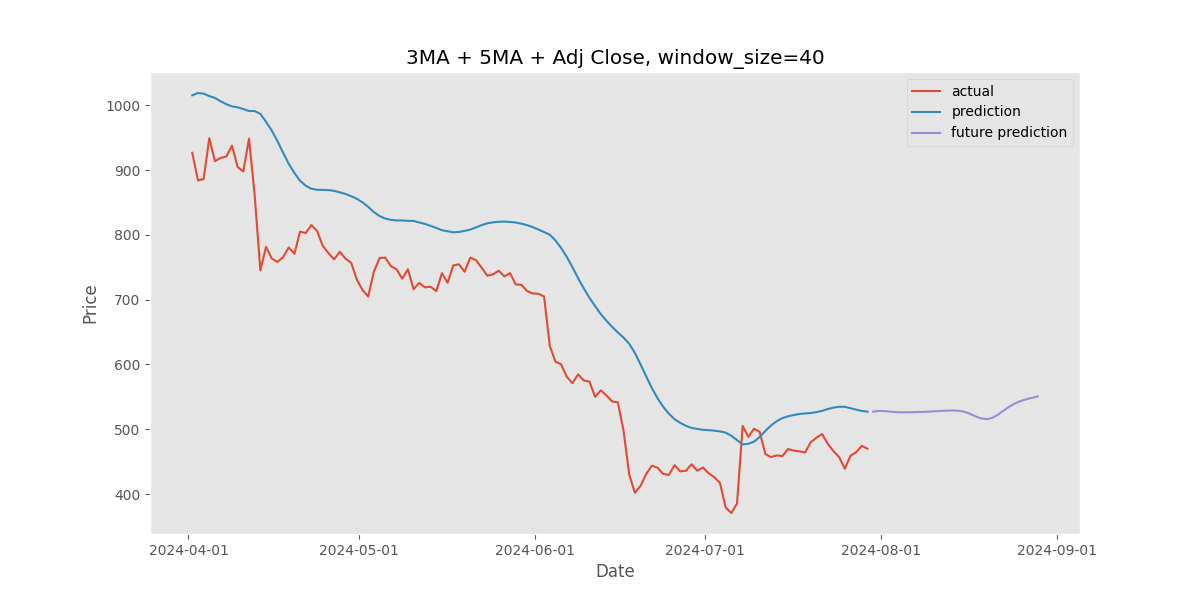
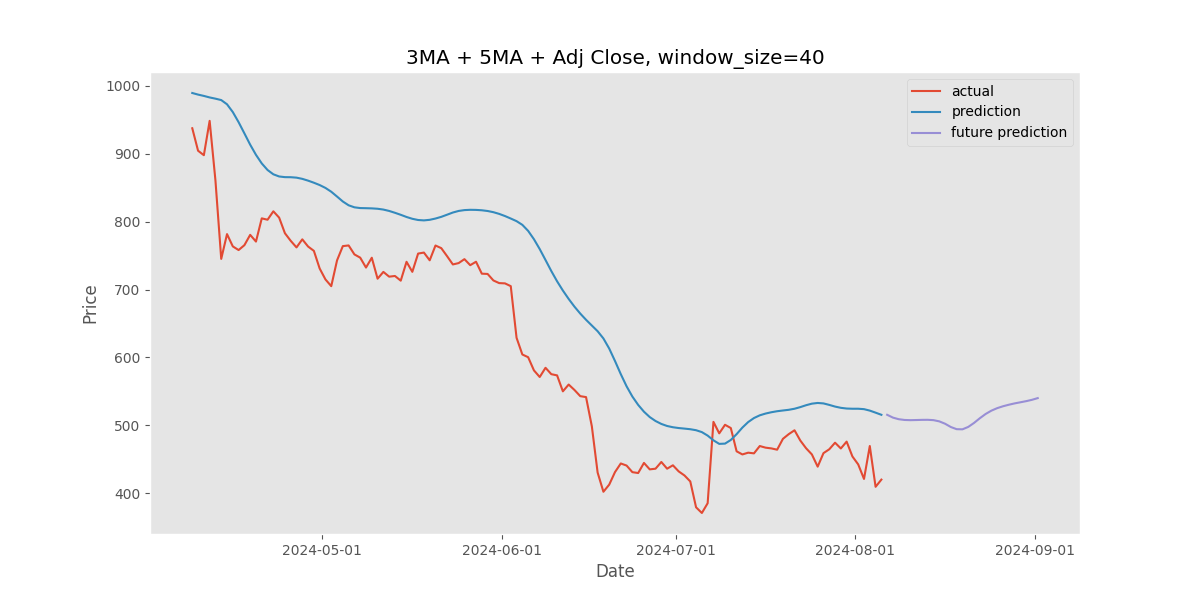
Add files via upload

diff --git a/public/auto.html b/public/auto.html
@@ -100,6 +100,18 @@
         .status-message {
             white-space: pre-line;
         }
+
+        .chart-container {
+            margin-top: 20px;
+            text-align: center;
+            width: 100%;
+            height: 500px; /* 차트 높이 증가 */
+        }
+
+        canvas {
+            max-width: 100%;
+            height: 100%;
+        }
     </style>
     <script src="https://code.jquery.com/jquery-3.6.0.min.js"></script>
 </head>
@@ -133,12 +145,17 @@
         <div id="statusUpdates">
             <ul id="statusList"></ul>
         </div>
+        <div class="chart-container">
+            <canvas id="priceChart"></canvas>
+        </div>
     </div>
 
     <!-- Socket.IO library -->
     <script src="https://cdnjs.cloudflare.com/ajax/libs/socket.io/4.4.1/socket.io.min.js"></script>
+    <script src="https://cdn.jsdelivr.net/npm/chart.js"></script>
+    <script src="https://cdn.jsdelivr.net/npm/chartjs-adapter-date-fns"></script>
     <script>
-        const socket = io('http://localhost:5002');  // auto.py의 포트로 수정
+        const socket = io('http://localhost:5002');
 
         socket.on('connect', () => {
             console.log('서버에 연결되었습니다.');
@@ -162,10 +179,10 @@
             $('#startForm').submit((event) => {
                 event.preventDefault();
                 const ticker = $('#ticker').val();
-                const sid = socket.id; // 클라이언트의 소켓 ID 가져오기
-                console.log('Socket ID:', sid); // 추가된 로그
+                const sid = socket.id;
+                console.log('Socket ID:', sid);
                 $.ajax({
-                    url: 'http://localhost:5002/start',  // auto.py의 포트로 수정
+                    url: 'http://localhost:5002/start',
                     type: 'POST',
                     contentType: 'application/json',
                     data: JSON.stringify({ ticker: ticker, sid: sid }),
@@ -178,6 +195,96 @@
                         statusUpdates.scrollTop = statusUpdates.scrollHeight;
                     }
                 });
+            });
+
+            // Chart.js 초기화
+            const ctx = document.getElementById('priceChart').getContext('2d');
+            const priceChart = new Chart(ctx, {
+                type: 'line',
+                data: {
+                    labels: [],
+                    datasets: [
+                        {
+                            label: 'Current Price',
+                            borderColor: 'blue',
+                            backgroundColor: 'blue', // 배경색 추가
+                            data: [],
+                            fill: false,
+                            tension: 0.1,
+                            borderWidth: 2,
+                            pointRadius: 3,  // 포인트 표시 및 크기 조정
+                        },
+                        {
+                            label: 'Target Price',
+                            borderColor: 'red',
+                            data: [],
+                            fill: false,
+                            tension: 0.1,
+                            borderWidth: 2,
+                            pointRadius: 0  // 포인트 숨기기
+                        }
+                    ]
+                },
+                options: {
+                    scales: {
+                        x: {
+                            type: 'time',
+                            time: {
+                                unit: 'minute',
+                                tooltipFormat: 'll HH:mm',
+                                displayFormats: {
+                                    minute: 'HH:mm'
+                                }
+                            },
+                            title: {
+                                display: true,
+                                text: 'Time'
+                            }
+                        },
+                        y: {
+                            title: {
+                                display: true,
+                                text: 'Price'
+                            }
+                        }
+                    },
+                    animation: {
+                        duration: 500,
+                        easing: 'linear'
+                    }
+                }
+            });
+
+            const MAX_DATA_POINTS = 50; // 최대 데이터 포인트 수
+
+            let lastUpdateTime = 0;
+
+            // 실시간 데이터 업데이트
+            function updateChart(data) {
+                const currentPrice = data.current_price;
+                const targetPrice = data.target_price;
+                const time = new Date(data.time);
+
+                // 1분마다 데이터 업데이트
+                if (time - lastUpdateTime >= 60000) {
+                    lastUpdateTime = time;
+
+                    if (priceChart.data.labels.length > MAX_DATA_POINTS) {
+                        priceChart.data.labels.shift();
+                        priceChart.data.datasets[0].data.shift();
+                        priceChart.data.datasets[1].data.shift();
+                    }
+
+                    priceChart.data.labels.push(time);
+                    priceChart.data.datasets[0].data.push(currentPrice);
+                    priceChart.data.datasets[1].data.push(targetPrice);
+
+                    priceChart.update();
+                }
+            }
+
+            socket.on('price_update', (data) => {
+                updateChart(data);
             });
         });
     </script>

diff --git a/main.js b/main.js
@@ -263,7 +263,7 @@ app.post('/start', (req, res) => {
     console.log('Received data - 티커:', ticker, '소켓 ID:', sid);
     const options = {
         hostname: 'localhost', // Flask 서버가 실행 중인 호스트
-        port: 5000, // Flask 서버가 실행 중인 포트
+        port: 5002, // Flask 서버가 실행 중인 포트
         path: '/start',
         method: 'POST',
         headers: {

diff --git a/auto.py b/auto.py
@@ -1,41 +1,52 @@
 import pyupbit
 import datetime
 import time
-from flask import Flask, request, jsonify
+import numpy as np
+from flask import Flask, request, jsonify, render_template
 from flask_socketio import SocketIO, emit
-from flask_cors import CORS  # Flask-CORS 라이브러리 임포트
+from flask_cors import CORS
 
 app = Flask(__name__)
 app.config['SECRET_KEY'] = 'secret!'
 socketio = SocketIO(app, cors_allowed_origins="*")
-CORS(app)  # CORS 설정 추가
+CORS(app)
 
 class AutoTrade:
     def __init__(self, start_cash, ticker, sid):
-        self.fee = 0.05  # 수수료
-        self.target_price = 0  # 목표 매수가
-        self.ma5 = 0  # 5일 이동평균
-        self.ticker = ticker  # 티커
-        self.buy_yn = False  # 매수 여부
-        self.start_cash = start_cash  # 시작 자산
+        self.fee = 0.05
+        self.target_price = 0
+        self.ma5 = 0
+        self.ticker = ticker
+        self.buy_yn = False
+        self.start_cash = start_cash
         self.sid = sid
         self.timer = 0
+        self.prices = []
+        self.target_prices = []
         self.get_today_data()
 
     def start(self):
-        now = datetime.datetime.now()  # 현재 시간
+        now = datetime.datetime.now()
         socketio.emit('status_update', {
                       'message': f"자동 매매 프로그램이 시작되었습니다\n시작 시간: {now}\n매매 대상: {self.ticker}\n시작 자산: {self.start_cash}"}, room=self.sid)
-        openTime = datetime.datetime(
-            now.year, now.month, now.day) + datetime.timedelta(days=1, hours=9, seconds=10)  # 09:00:10
+        openTime = datetime.datetime(now.year, now.month, now.day) + datetime.timedelta(days=1, hours=9, seconds=10)
 
         while True:
             try:
                 now = datetime.datetime.now()
                 current_price = pyupbit.get_current_price(self.ticker)
+                self.prices.append(current_price)
+                self.target_prices.append(self.target_price)
+                self.send_price_update(current_price, self.target_price)
 
                 if self.timer % 60 == 0:
                     status_message = f"{now}\n거래 시작 시간: {openTime}\n목표 매수가: {self.target_price:.2f}\n현재가: {current_price:.2f}\n5일 이동평균: {self.ma5:.2f}\n매수 여부: {'예' if self.buy_yn else '아니오'}"
+
+                    # 상승/하강 추세 결정
+                    if len(self.prices) > 1:
+                        trend = "상승" if self.prices[-1] > self.prices[-2] else "하락"
+                        status_message += f"\n추세: {trend}"
+
                     print(status_message)
                     socketio.emit('status_update', {'message': status_message}, room=self.sid)
 
@@ -46,9 +57,9 @@ class AutoTrade:
                         print(sell_message)
                         socketio.emit('status_update', {'message': sell_message}, room=self.sid)
                         self.sell_coin()
-                    self.get_today_data()  # 데이터 갱신
+                    self.get_today_data()
 
-                if (current_price >= self.target_price) and (current_price >= self.ma5) and not self.buy_yn:  # 매수 시도
+                if (current_price >= self.target_price) and (current_price >= self.ma5) and not self.buy_yn:
                     buy_message = "==================== [ 매수 시도 ] ===================="
                     print(buy_message)
                     socketio.emit('status_update', {'message': buy_message}, room=self.sid)
@@ -61,24 +72,19 @@ class AutoTrade:
             self.timer += 1
             time.sleep(1)
 
+    def send_price_update(self, current_price, target_price):
+        now = datetime.datetime.now().strftime("%Y-%m-%d %H:%M:%S")
+        socketio.emit('price_update', {'time': now, 'current_price': current_price, 'target_price': target_price}, room=self.sid)
+
     def get_today_data(self):
         print("\n==================== [ 데이터 갱신 시도 ] ====================")
         daily_data = pyupbit.get_ohlcv(self.ticker, count=41)
-        # 노이즈 계산 ( 1- 절대값(시가 - 종가) / (고가 - 저가) )
         daily_data['noise'] = 1 - abs(daily_data['open'] - daily_data['close']) / (daily_data['high'] - daily_data['low'])
-        # 노이즈 20일 평균
         daily_data['noise_ma20'] = daily_data['noise'].rolling(window=20).mean().shift(1)
-
-        # 변동폭 ( 고가 - 저가 )
         daily_data['range'] = daily_data['high'] - daily_data['low']
-        # 목표매수가 ( 시가 + 변동폭 * K )
         daily_data['targetPrice'] = daily_data['open'] + daily_data['range'].shift(1) * daily_data['noise_ma20']
-
-        # 5일 이동평균선
         daily_data['ma5'] = daily_data['close'].rolling(window=5, min_periods=1).mean().shift(1)
-
         today = daily_data.iloc[-1]
-
         self.target_price = today.targetPrice
         self.ma5 = today.ma5
         print("==================== [ 데이터 갱신 완료 ] ====================\n")
@@ -86,23 +92,26 @@ class AutoTrade:
 
     def buy_coin(self):
         self.buy_yn = True
-        balance = upbit.get_balance()  # 잔고 조회
-
-        if balance > 5000:  # 잔고 5000원 이상일 때
+        balance = upbit.get_balance()
+        if balance > 5000:
             upbit.buy_market_order(self.ticker, balance * 0.9995)
-            buy_price = pyupbit.get_orderbook(self.ticker)['orderbook_units'][0]['ask_price']  # 최우선 매도 호가
+            buy_price = pyupbit.get_orderbook(self.ticker)['orderbook_units'][0]['ask_price']
             buy_message = f"====================매수 시도====================\n#매수 주문\n매수 주문 가격: {buy_price:.2f}원"
             print(buy_message)
             socketio.emit('status_update', {'message': buy_message}, room=self.sid)
 
     def sell_coin(self):
         self.buy_yn = False
-        balance = upbit.get_balance(self.ticker)  # 잔고 조회
+        balance = upbit.get_balance(self.ticker)
         upbit.sell_market_order(self.ticker, balance)
-        sell_price = pyupbit.get_orderbook(self.ticker)['orderbook_units'][0]['bid_price']  # 최우선 매수 호가
+        sell_price = pyupbit.get_orderbook(self.ticker)['orderbook_units'][0]['bid_price']
         sell_message = f"====================매도 시도====================\n#매도 주문\n매도 주문 가격: {sell_price:.2f}원"
         print(sell_message)
         socketio.emit('status_update', {'message': sell_message}, room=self.sid)
+
+@app.route('/')
+def home():
+    return render_template('auto.html')
 
 @app.route('/start', methods=['POST'])
 def start():
@@ -120,9 +129,11 @@ def start():
     try:
         global upbit
         upbit = pyupbit.Upbit(access_key, secret_key)
-        start_cash = upbit.get_balance()  # API를 통해 잔고를 가져옴
+        start_cash = upbit.get_balance()
         print(f"Start cash: {start_cash}")
         tradingBot = AutoTrade(start_cash, ticker, sid)
+        global auto_trade
+        auto_trade = tradingBot
         socketio.start_background_task(target=tradingBot.start)
         return 'Trading started!'
     except Exception as e:
@@ -132,4 +143,6 @@ def start():
         return jsonify({"error": str(e)}), 500
 
 if __name__ == '__main__':
-    socketio.run(app, host='0.0.0.0', port=5002)  # 포트 5002로 수정
+    global auto_trade
+    auto_trade = None
+    socketio.run(app, host='0.0.0.0', port=5002)

diff --git a/graph.py b/graph.py
@@ -143,6 +143,19 @@ def run_stock_prediction(stock_code):
 
     future_predictions_inverse = np.array(future_predictions) * (scaler.data_max_[3] - scaler.data_min_[3]) + scaler.data_min_[3]
 
+    # Calculate standard deviation
+    std_dev = np.std(future_predictions_inverse)
+    mean_pred = np.mean(future_predictions_inverse)
+
+    # Logging for debugging
+    print("Future predictions (before filtering):", future_predictions_inverse)
+    print("Mean prediction:", mean_pred)
+    print("Standard deviation:", std_dev)
+
+    # Filter predictions within 1.5 standard deviations
+    filtered_predictions = [pred for pred in future_predictions_inverse if mean_pred - 1.5 * std_dev <= pred <= mean_pred + 1.5 * std_dev]
+    print("Filtered predictions (within 1.5 standard deviations):", filtered_predictions)
+
     mape = np.sum(abs(y_test_inverse - pred_inverse) / y_test_inverse) / len(x_test)
     print("MAPE:", mape)
 
@@ -156,7 +169,7 @@ def run_stock_prediction(stock_code):
     plt.plot(date_range, y_test_inverse, label='actual')
     plt.plot(date_range, pred_inverse, label='prediction')
 
-    plt.plot(future_dates, future_predictions_inverse, label='future prediction')
+    plt.plot(future_dates[:len(filtered_predictions)], filtered_predictions, label='future prediction')
 
     plt.grid()
     plt.legend(loc='best')
@@ -167,11 +180,11 @@ def run_stock_prediction(stock_code):
     plt.close()
 
     future_predictions_df = pd.DataFrame({
-        'Date': future_dates,
-        'Predicted_Close': future_predictions_inverse
+        'Date': future_dates[:len(filtered_predictions)],
+        'Predicted_Close': filtered_predictions
     })
 
     return plot_file_name, future_predictions_df
 
 if __name__ == '__main__':
-    app.run(debug=True, port=5001)  # 포트를 5001로 수정
+    app.run(debug=True, port=5001)
